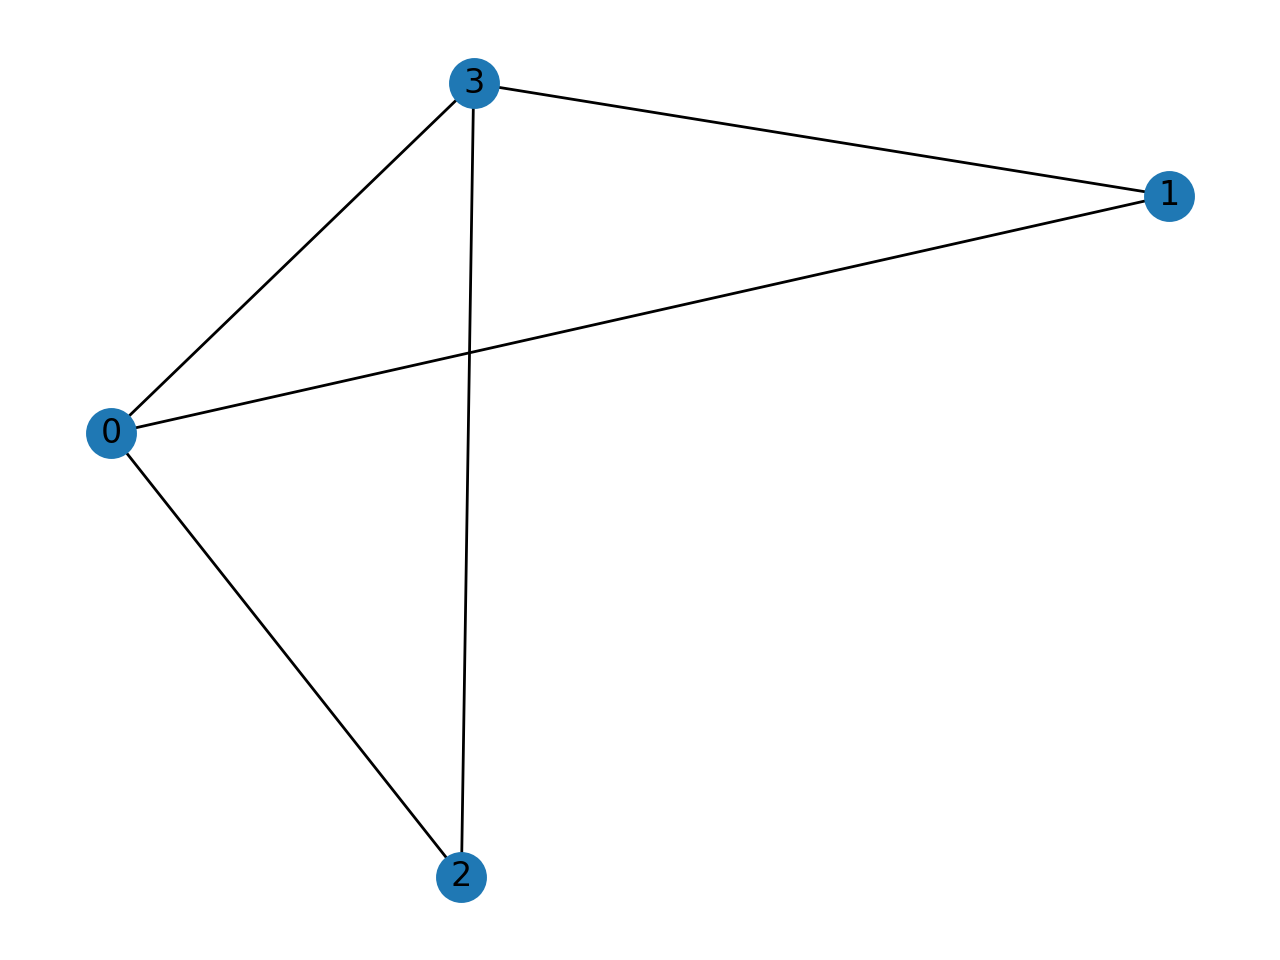
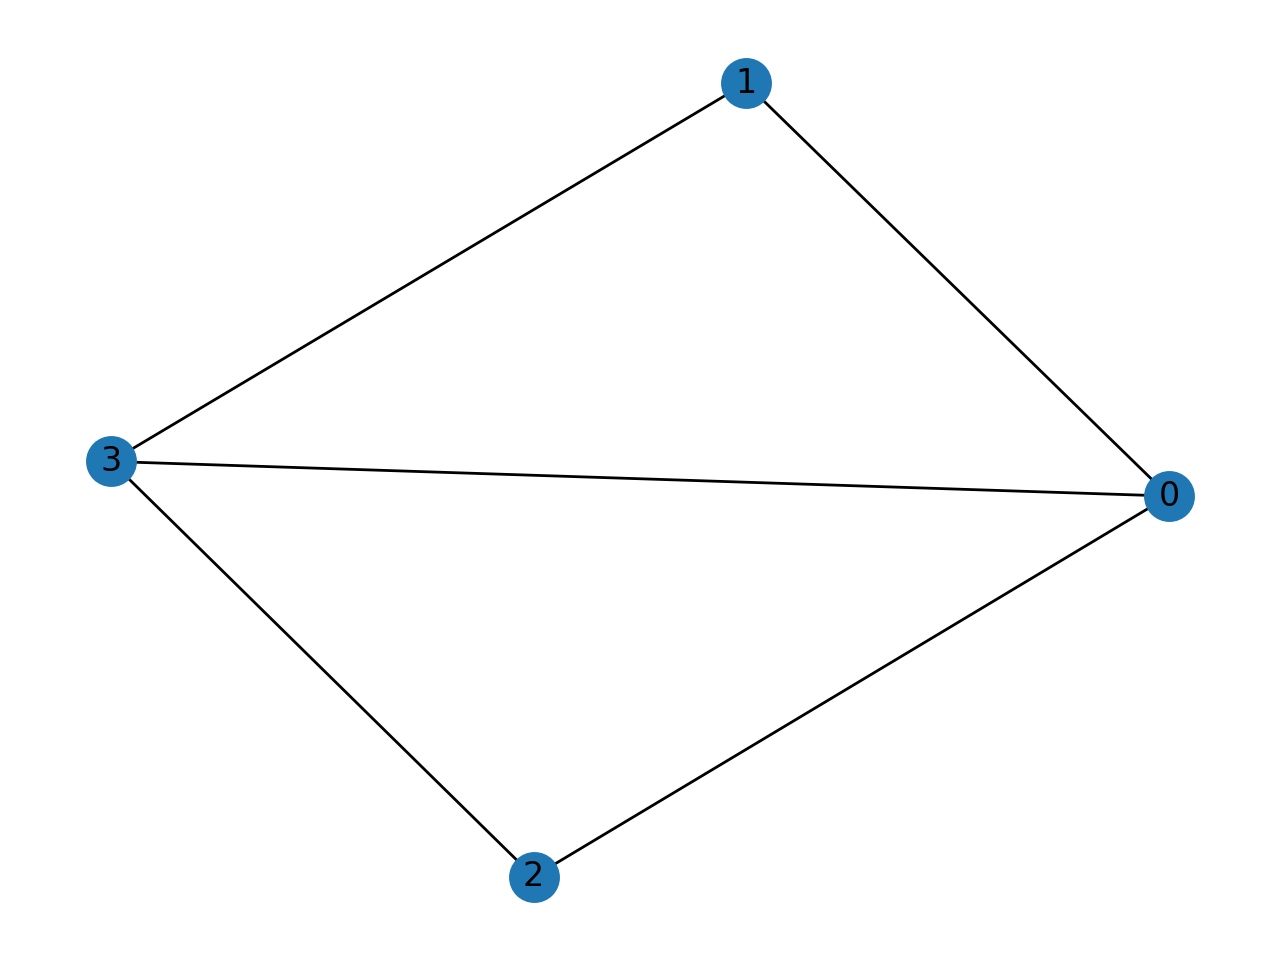
spiking alipour working up to m=0

diff --git a/src/helper_network_structure.py b/src/helper_network_structure.py
@@ -149,7 +149,7 @@ def get_degree_graph_with_separate_wta_circuits(G, rand_nrs, rand_ceil, m):
         #    )
 
         # Create next round connector neurons.
-        for loop in range(0, m):
+        for loop in range(1, m):
             get_degree.add_node(
                 f"next_round_{loop}",
                 id=node,
@@ -157,7 +157,7 @@ def get_degree_graph_with_separate_wta_circuits(G, rand_nrs, rand_ceil, m):
                 dv=1,
                 bias=0,
                 vth=len(G.nodes) - 1,
-                pos=(float(6 * d + loop * 9 * d), -2 * d),
+                pos=(float(6 * d + (loop - 1) * 9 * d), -2 * d),
             )
 
             get_degree.add_node(
@@ -167,7 +167,7 @@ def get_degree_graph_with_separate_wta_circuits(G, rand_nrs, rand_ceil, m):
                 dv=1,
                 bias=0,
                 vth=0,
-                pos=(float(9 * d + loop * 9 * d), -2 * d),
+                pos=(float(9 * d + (loop - 1) * 9 * d), -2 * d),
             )
 
             get_degree.add_node(
@@ -177,7 +177,7 @@ def get_degree_graph_with_separate_wta_circuits(G, rand_nrs, rand_ceil, m):
                 dv=1,
                 bias=0,
                 vth=2 * (len(G)) - 1,
-                pos=(float(12 * d + loop * 9 * d), -2 * d),
+                pos=(float(12 * d + (loop - 1) * 9 * d), -2 * d),
             )
 
     # Ensure SNN graph is connected(Otherwise, recurrent snn builder can not span/cross the network.)
@@ -233,7 +233,7 @@ def get_degree_graph_with_separate_wta_circuits(G, rand_nrs, rand_ceil, m):
     #
 
     # Then create all edges between the nodes.
-    for loop in range(0, m):
+    for loop in range(1, m):
         get_degree.add_edges_from(
             [
                 (
@@ -263,13 +263,13 @@ def get_degree_graph_with_separate_wta_circuits(G, rand_nrs, rand_ceil, m):
         )
 
     for circuit in G.nodes:
-        for loop in range(0, m - 1):
+        for loop in range(1, m):
             # TODO
             get_degree.add_edges_from(
                 [
                     (
                         f"delay_{loop}",
-                        f"selector_{circuit}_{loop+1}",
+                        f"selector_{circuit}_{loop}",
                     )
                 ],
                 weight=1,  # TODO: doubt.
@@ -293,11 +293,11 @@ def get_degree_graph_with_separate_wta_circuits(G, rand_nrs, rand_ceil, m):
 
                     # for loop in range(0, m):
                     # TODO: change to degree_receiver_x_y_z and update synapses for loop from 1,m to 0,m.
-                    for loop in range(0, m):
+                    for loop in range(1, m):
                         get_degree.add_edges_from(
                             [
                                 (
-                                    f"degree_receiver_{circuit_target}_{circuit}_{loop}",
+                                    f"degree_receiver_{circuit_target}_{circuit}_{loop-1}",
                                     f"next_round_{loop}",
                                 )
                             ],
@@ -430,30 +430,9 @@ def get_weight_receiver_synapse_paths(G):
 
 
 def plot_unstructured_graph(G, iteration, size, show=False):
-    # nx.draw(G, pos=graphviz_layout(G),with_labels = True)
-    #
-    # edge_labels = nx.get_edge_attributes(G,'weight')
-    # print(f'edge_labels={edge_labels}')
-    # pos = nx.spring_layout(G)
-    ##nx.draw_networkx_edge_labels(G, pos, labels=edge_labels)
-    # nx.draw_networkx_edge_labels(G,pos, edge_labels)
-    # pos = nx.spring_layout(G)
-    # pos = nx.graphviz_layout(G)
-    # nx.draw(G, pos)
-    nx.draw(G, pos=graphviz_layout(G), with_labels=True)
-    node_labels = nx.get_node_attributes(G, "")
-    nx.draw_networkx_labels(G, pos=graphviz_layout(G), labels=node_labels)
-    edge_labels = nx.get_edge_attributes(G, "weight")
-    nx.draw_networkx_edge_labels(G, graphviz_layout(G), edge_labels)
-    # plotting a line plot after changing it's width and height
-    # f = plt.figure()
-    # f.set_figwidth(10)
-    # f.set_figheight(10)
-    plt.subplots_adjust(left=0.0, right=4.0, bottom=0.0, top=4.0)
-    # plt.savefig('this.png')
+    nx.draw(G, with_labels=True)
     if show:
         plt.show()
-    # plt.savefig()
     plot_export = Plot_to_tex()
     plot_export.export_plot(plt, f"G_{size}_{iteration}")
     plt.clf()

diff --git a/src/neumann.py b/src/neumann.py
@@ -127,15 +127,16 @@ def partial_alipour(delta, inhibition, G, rand_ceil, rand_nrs):
 
 def full_alipour(delta, inhibition, G, rand_ceil, rand_nrs, m):
     # Reverse engineer actual rand nrs:
-    uninhibited_rand_nrs = [
-        (x + inhibition) / (rand_ceil * delta + 1) for x in rand_nrs
-    ]
+    uninhibited_rand_nrs = [(x + inhibition) for x in rand_nrs]
     print(f"uninhibited_rand_nrs={uninhibited_rand_nrs}")
 
     for node in G.nodes:
         G.nodes[node]["marks"] = 0
-        G.nodes[node]["random_number"] = random.random()
-        G.nodes[node]["weight"] = G.degree(node) + G.nodes[node]["random_number"]
+        G.nodes[node]["countermarks"] = 0
+        G.nodes[node]["random_number"] = 1 * uninhibited_rand_nrs[node]
+        G.nodes[node]["weight"] = (
+            G.degree(node) * (rand_ceil + 1) * delta + G.nodes[node]["random_number"]
+        )
 
     for node in G.nodes:
         max_weight = max(G.nodes[n]["weight"] for n in nx.all_neighbors(G, node))
@@ -143,20 +144,25 @@ def full_alipour(delta, inhibition, G, rand_ceil, rand_nrs, m):
             if (
                 G.nodes[n]["weight"] == max_weight
             ):  # should all max weight neurons be marked or only one of them?
-                G.nodes[n]["marks"] += 1
+                G.nodes[n]["marks"] += 1 if m == 0 else (rand_ceil + 1) * delta
+                G.nodes[n]["countermarks"] += 1
 
-    for _ in range(m):
+    for loop in range(m):
 
         for node in G.nodes:
             G.nodes[node]["weight"] = (
                 G.nodes[node]["marks"] + G.nodes[node]["random_number"]
             )
             G.nodes[node]["marks"] = 0
+            G.nodes[node]["countermarks"] = 0
 
         for node in G.nodes:
             max_weight = max(G.nodes[n]["weight"] for n in nx.all_neighbors(G, node))
             for n in nx.all_neighbors(G, node):
                 if G.nodes[n]["weight"] == max_weight:
-                    G.nodes[n]["marks"] += 1
+                    G.nodes[n]["marks"] += (
+                        1 if loop == (m - 1) else (rand_ceil + 1) * delta
+                    )
+                    G.nodes[n]["countermarks"] += 1
 
     return G

diff --git a/test/test_algo_p1.py b/test/test_algo_p1.py
@@ -57,10 +57,11 @@ class Test_counter(unittest.TestCase):
 
         for retry in range(0, 1, 1):
             graphs = []
-            for size in range(4, 5, 1):
+            for size in range(5, 6, 1):
                 graphs.append(create_triangle_free_planar_graph(size, 0.6, 42, False))
             for G in graphs:
-                G = create_manual_graph_with_4_nodes()
+                # G = create_manual_graph_with_4_nodes()
+                # raise Exception("Stop, sizecheck: ", len(G))
                 # Initialise paramers used for testing.
                 test_object = create_test_object(G, retry, m, False, False)
                 # raise Exception("STOP")
@@ -101,7 +102,8 @@ class Test_counter(unittest.TestCase):
                     )
 
                     self.assertEqual(
-                        G_alipour.nodes[node]["marks"], counter_neurons[node].u.get()
+                        G_alipour.nodes[node]["countermarks"],
+                        counter_neurons[node].u.get(),
                     )
                 # Terminate Loihi simulation.
                 starter_neuron.stop()
